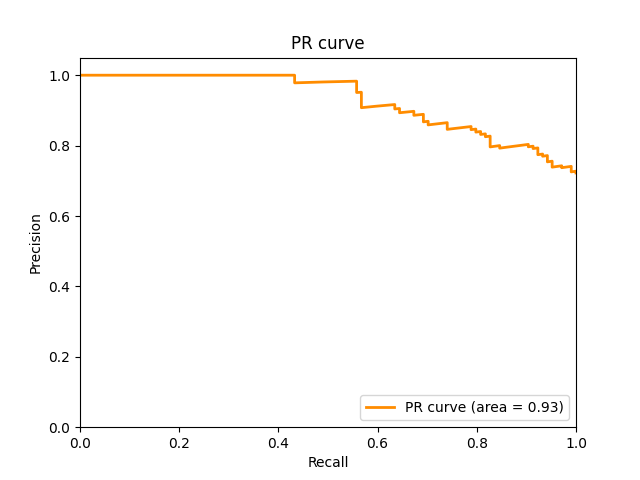
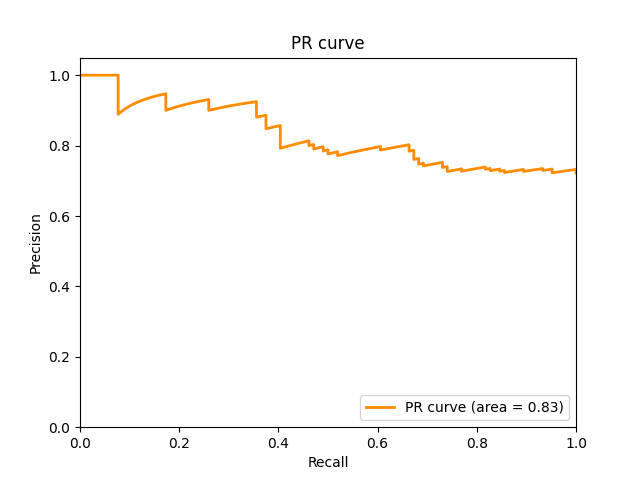
update conv1 from 2D to 1D(make up for some errors of last commit);change huawei training file

diff --git a/test_huawei.py b/test_huawei.py
@@ -3,8 +3,10 @@ from dataset import get_data_transforms, load_data
 from torchvision.datasets import ImageFolder
 import numpy as np
 from torch.utils.data import DataLoader
-from resnet import resnet18, resnet34, resnet50, wide_resnet50_2
-from de_resnet import de_resnet18, de_resnet50, de_wide_resnet50_2
+# from resnet import resnet18, resnet34, resnet50, wide_resnet50_2
+# from de_resnet import de_resnet18, de_resnet50, de_wide_resnet50_2
+from resnet import resnet18, resnet34, resnet50, wide_resnet50_2, wide_resnet50_2_modified
+from de_resnet import de_resnet18, de_resnet34, de_wide_resnet50_2, de_resnet50, de_wide_resnet50_2_modified
 from dataset import MVTecDataset
 from torch.nn import functional as F
 from sklearn.metrics import roc_auc_score, average_precision_score, roc_curve, precision_recall_curve
@@ -148,11 +150,14 @@ def test(_class_):
     ckp_path = './checkpoints/' + 'wres50_'+_class_+'.pth'
     test_data = MVTecDataset(root=test_path, transform=data_transform, gt_transform=gt_transform, phase="test")
     test_dataloader = torch.utils.data.DataLoader(test_data, batch_size=1, shuffle=False)
-    encoder, bn = wide_resnet50_2(pretrained=True)
+    # encoder, bn = wide_resnet50_2(pretrained=True)
+    encoder, bn = wide_resnet50_2_modified(pretrained=True)
     encoder = encoder.to(device)
     bn = bn.to(device)
     encoder.eval()
-    decoder = de_wide_resnet50_2(pretrained=False)
+    # decoder = de_wide_resnet50_2(pretrained=False)
+    decoder = de_wide_resnet50_2_modified(pretrained=False)
+
     decoder = decoder.to(device)
     ckp = torch.load(ckp_path)
     for k, v in list(ckp['bn'].items()):
@@ -175,16 +180,20 @@ def visualization(_class_):
 
     data_transform, gt_transform = get_data_transforms(256, 256)
     test_path = '../mvtec/' + _class_
-    ckp_path = './checkpoints/' + 'rm_1105_wres50_ff_mm_'+_class_+'.pth'
+    # ckp_path = './checkpoints/' + 'rm_1105_wres50_ff_mm_'+_class_+'.pth'
+    test_path = '/root/autodl-fs/DATASET_HUAWEI/' + _class_
+    ckp_path = './checkpoints/' + 'wres50_'+_class_+'.pth'
     test_data = MVTecDataset(root=test_path, transform=data_transform, gt_transform=gt_transform, phase="test")
     test_dataloader = torch.utils.data.DataLoader(test_data, batch_size=1, shuffle=False)
 
-    encoder, bn = wide_resnet50_2(pretrained=True)
+    # encoder, bn = wide_resnet50_2(pretrained=True)
+    encoder, bn = wide_resnet50_2_modified(pretrained=True)
     encoder = encoder.to(device)
     bn = bn.to(device)
 
     encoder.eval()
-    decoder = de_wide_resnet50_2(pretrained=False)
+    # decoder = de_wide_resnet50_2(pretrained=False)
+    decoder = de_wide_resnet50_2_modified(pretrained=False)
     decoder = decoder.to(device)
     ckp = torch.load(ckp_path)
     for k, v in list(ckp['bn'].items()):
@@ -387,7 +396,7 @@ def compute_pro(masks: ndarray, amaps: ndarray, num_th: int = 200) -> None:
     assert isinstance(num_th, int), "type(num_th) must be int"
 
     df = pd.DataFrame([], columns=["pro", "fpr", "threshold"])
-    binary_amaps = np.zeros_like(amaps, dtype=np.bool)
+    binary_amaps = np.zeros_like(amaps, dtype=bool)
 
     min_th = amaps.min()
     max_th = amaps.max()
@@ -486,5 +495,5 @@ def plot_pr_curve(recall,precision,ap):
 # plt.show()
 
 if __name__ == '__main__':
-    # test('fiber')
-    test('lace')
+    test('fiber')
+    # test('lace')

diff --git a/test.py b/test.py
@@ -3,8 +3,10 @@ from dataset import get_data_transforms, load_data
 from torchvision.datasets import ImageFolder
 import numpy as np
 from torch.utils.data import DataLoader
-from resnet import resnet18, resnet34, resnet50, wide_resnet50_2
-from de_resnet import de_resnet18, de_resnet50, de_wide_resnet50_2
+# from resnet import resnet18, resnet34, resnet50, wide_resnet50_2
+# from de_resnet import de_resnet18, de_resnet50, de_wide_resnet50_2
+from resnet import resnet18, resnet34, resnet50, wide_resnet50_2, wide_resnet50_2_modified
+from de_resnet import de_resnet18, de_resnet34, de_wide_resnet50_2, de_resnet50, de_wide_resnet50_2_modified
 from dataset import MVTecDataset
 from torch.nn import functional as F
 from sklearn.metrics import roc_auc_score, average_precision_score
@@ -119,11 +121,13 @@ def test(_class_):
     ckp_path = './checkpoints/' + 'wres50_'+_class_+'.pth'
     test_data = MVTecDataset(root=test_path, transform=data_transform, gt_transform=gt_transform, phase="test")
     test_dataloader = torch.utils.data.DataLoader(test_data, batch_size=1, shuffle=False)
-    encoder, bn = wide_resnet50_2(pretrained=True)
+    # encoder, bn = wide_resnet50_2(pretrained=True)
+    encoder, bn = wide_resnet50_2_modified(pretrained=True)
     encoder = encoder.to(device)
     bn = bn.to(device)
     encoder.eval()
-    decoder = de_wide_resnet50_2(pretrained=False)
+    # decoder = de_wide_resnet50_2(pretrained=False)
+    decoder = de_wide_resnet50_2_modified(pretrained=False)
     decoder = decoder.to(device)
     ckp = torch.load(ckp_path)
     for k, v in list(ckp['bn'].items()):
@@ -148,12 +152,15 @@ def visualization(_class_):
     test_data = MVTecDataset(root=test_path, transform=data_transform, gt_transform=gt_transform, phase="test")
     test_dataloader = torch.utils.data.DataLoader(test_data, batch_size=1, shuffle=False)
 
-    encoder, bn = wide_resnet50_2(pretrained=True)
+    # encoder, bn = wide_resnet50_2(pretrained=True)
+    encoder, bn = wide_resnet50_2_modified(pretrained=True)
     encoder = encoder.to(device)
     bn = bn.to(device)
 
     encoder.eval()
-    decoder = de_wide_resnet50_2(pretrained=False)
+    # decoder = de_wide_resnet50_2(pretrained=False)
+    decoder = de_wide_resnet50_2_modified(pretrained=False)
+
     decoder = decoder.to(device)
     ckp = torch.load(ckp_path)
     for k, v in list(ckp['bn'].items()):

diff --git a/resnet.py b/resnet.py
@@ -278,13 +278,10 @@ class ModifiedResNet(nn.Module):
         self.base_width = width_per_group
         
         # Replace the original 2D conv1 with 1D conv layers
-        # self.conv1_horizontal = nn.Conv1d(in_channels=3, out_channels=self.inplanes, kernel_size=7, stride=2, padding=3)
-        # self.conv1_vertical = nn.Conv1d(in_channels=3, out_channels=self.inplanes, kernel_size=7, stride=2, padding=3)
-
         # Row-wise convolution: kernel size (1, k) for horizontal convolution
-        self.conv1_row = nn.Conv2d(in_channels=3, out_channels=self.inplanes, stride=2, kernel_size=(1, 7), padding=(0, 3))
+        self.conv1_row = nn.Conv2d(in_channels=3, out_channels=self.inplanes, stride=(1, 2), kernel_size=(1, 7), padding=(0, 3))
         # Column-wise convolution: kernel size (k, 1) for vertical convolution
-        self.conv1_col = nn.Conv2d(in_channels=3, out_channels=self.inplanes, stride=2, kernel_size=(7, 1), padding=(3, 0))
+        self.conv1_col = nn.Conv2d(in_channels=self.inplanes, out_channels=self.inplanes, stride=(2, 1), kernel_size=(7, 1), padding=(3, 0))
 
 
         # Batch normalization and ReLU layers remain the same
@@ -303,10 +300,7 @@ class ModifiedResNet(nn.Module):
         self.fc = nn.Linear(512 * block.expansion, num_classes)
 
         for m in self.modules():
-            if isinstance(m, nn.Conv1d):
-                nn.init.kaiming_normal_(m.weight, mode='fan_out', nonlinearity='relu')
-                nn.init.constant_(m.bias, 0)
-            elif isinstance(m, nn.Conv2d):
+            if isinstance(m, nn.Conv2d):
                 nn.init.kaiming_normal_(m.weight, mode='fan_out', nonlinearity='relu')
             elif isinstance(m, (nn.BatchNorm2d, nn.GroupNorm)):
                 nn.init.constant_(m.weight, 1)
@@ -350,10 +344,10 @@ class ModifiedResNet(nn.Module):
     def _forward_impl(self, x: torch.Tensor) -> torch.Tensor: # x: torch.Size([16, 3, 224, 224])
         
         # Apply convolutions
-        x_row = self.conv1_row(x) # torch.Size([16, 64, 224, 224])
-        x_col = self.conv1_col(x) # torch.Size([16, 64, 224, 224])
+        x_row = self.conv1_row(x) # torch.Size([16, 64, 224, 112])
+        x_col = self.conv1_col(x_row) # torch.Size([16, 64, 112, 112])
 
-        x = x_row + x_col
+        x = x_col
         
         # Proceed with the original network
         x = self.bn1(x)

diff --git a/main_huawei.py b/main_huawei.py
@@ -10,8 +10,10 @@ import numpy as np
 import random
 import os
 from torch.utils.data import DataLoader
-from resnet import resnet18, resnet34, resnet50, wide_resnet50_2
-from de_resnet import de_resnet18, de_resnet34, de_wide_resnet50_2, de_resnet50
+# from resnet import resnet18, resnet34, resnet50, wide_resnet50_2
+# from de_resnet import de_resnet18, de_resnet34, de_wide_resnet50_2, de_resnet50
+from resnet import resnet18, resnet34, resnet50, wide_resnet50_2, wide_resnet50_2_modified
+from de_resnet import de_resnet18, de_resnet34, de_wide_resnet50_2, de_resnet50, de_wide_resnet50_2_modified
 from dataset import MVTecDataset
 import torch.backends.cudnn as cudnn
 import argparse
@@ -60,9 +62,9 @@ def loss_concat(a, b):
 
 def train(_class_):
     print(_class_)
-    epochs = 200
+    epochs = 500
     learning_rate = 0.005
-    batch_size = 16
+    batch_size = 32
     image_size = 256
         
     device = 'cuda' if torch.cuda.is_available() else 'cpu'
@@ -82,11 +84,13 @@ def train(_class_):
     train_dataloader = torch.utils.data.DataLoader(train_data, batch_size=batch_size, shuffle=True)
     test_dataloader = torch.utils.data.DataLoader(test_data, batch_size=1, shuffle=False)
 
-    encoder, bn = wide_resnet50_2(pretrained=True)
+    # encoder, bn = wide_resnet50_2(pretrained=True)
+    encoder, bn = wide_resnet50_2_modified(pretrained=True)
     encoder = encoder.to(device)
     bn = bn.to(device)
     encoder.eval()
-    decoder = de_wide_resnet50_2(pretrained=False)
+    # decoder = de_wide_resnet50_2(pretrained=False)
+    decoder = de_wide_resnet50_2_modified(pretrained=False)
     decoder = decoder.to(device)
 
     optimizer = torch.optim.Adam(list(decoder.parameters())+list(bn.parameters()), lr=learning_rate, betas=(0.5,0.999))

diff --git a/main.py b/main.py
@@ -87,6 +87,7 @@ def train(_class_):
     encoder = encoder.to(device)
     bn = bn.to(device)
     encoder.eval()
+    # decoder = de_wide_resnet50_2(pretrained=False)
     decoder = de_wide_resnet50_2_modified(pretrained=False)
     decoder = decoder.to(device)
 
